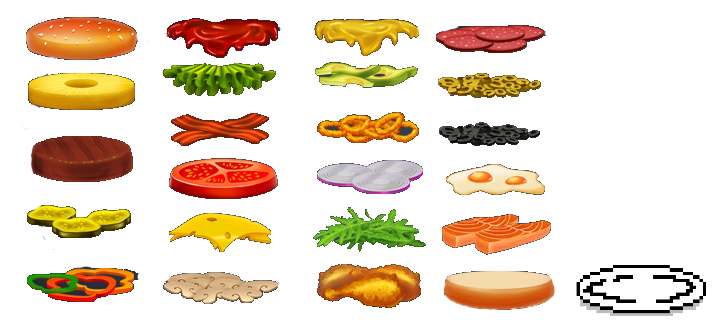
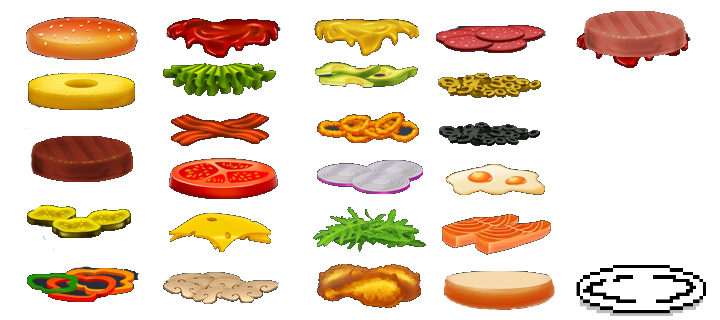
Speed of cooking patty is now determined by a variable. There is now a progress bar indicating the progress of the patty cooking

Changed region(s): [[0.7944, 0.0312, 0.9778, 0.2188]]

diff --git a/src/Game/Entities/Static/StoveCounter.cpp b/src/Game/Entities/Static/StoveCounter.cpp
@@ -24,15 +24,28 @@ void StoveCounter::interact() {
 void StoveCounter::tick() {
     ticks++;
     // Increasing cooking progress every certian amount of ticks
-    if(isCooking && ticks % 2 == 0) {
+    if(isCooking && ticks % ticksToCook == 0)
         cookingProgress++;
-    }
 
     if(cookingProgress == 100) {
         setItem(cookedItem);
         isCooking = false;
         isCooked = true;
     }
+}
+
+void StoveCounter::render() {
+    Entity::render();
+
+    // Drawing progress bar while cooking
+    
+    // Background
+    ofSetColor(100);
+    ofDrawRectRounded(x, y + height - progressBarH * 2, width, progressBarH, 1);
+
+    // Progress
+    ofSetColor(isCooked? completeColor : progressingColor);
+    ofDrawRectRounded(x, y + height - progressBarH * 2, width / 100.0 * cookingProgress, progressBarH, 1);
 }
 
 void StoveCounter::reset() {

diff --git a/src/Game/Entities/Static/StoveCounter.h b/src/Game/Entities/Static/StoveCounter.h
@@ -6,15 +6,19 @@ class StoveCounter: public BaseCounter {
         Item *rawItem;
         // cookingProgress = 100 when it is done
         int cookingProgress = 0;
-        int ticksToCook = 1;
+        int ticksToCook = 2;
         bool isCooking = false;
         // when isCooked == true, the item is set to cookedItem, otherwise it is set to rawItem
         bool isCooked = false;
+        int progressBarH = 10;
+        ofColor completeColor = ofColor(21, 136, 255);
+        ofColor progressingColor = ofColor(255);
 
     public:
         StoveCounter(int x, int y, int width, int height, Item* rawItem, Item* cookedItem, ofImage sprite);
         Item* getItem();
         void interact();
+        void render();
         void reset();
         void tick();
 };
